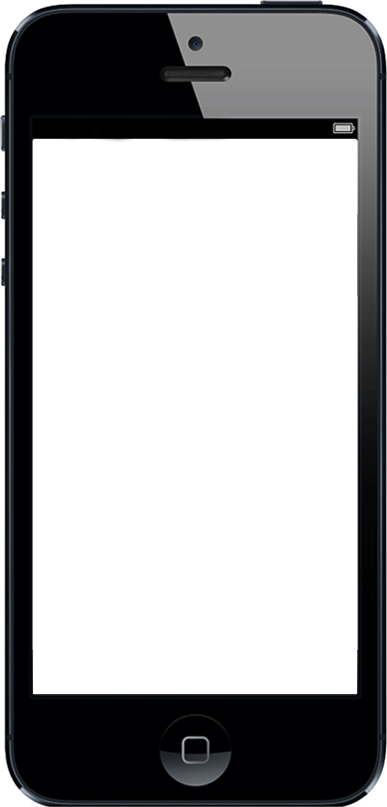
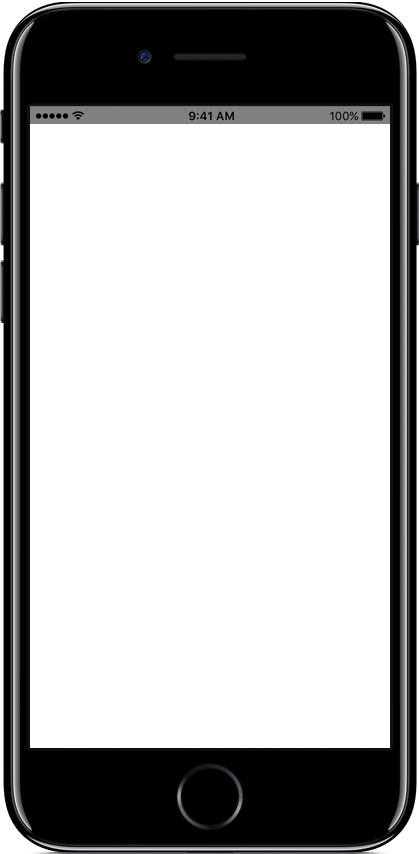
Upgrade to iphone 7 on mobile preview

Changed region(s): [[0.0, 0.0, 1.0, 1.0], [0.3411, 0.062, 0.3721, 0.0929]]

diff --git a/resources/assets/js/base/campaign.js b/resources/assets/js/base/campaign.js
@@ -307,12 +307,12 @@
 
     function animatePreviewToMobile() {
         var displayWidth = 320;
-        var displayHeight = 555;
+        var displayHeight = 605;
         var $iframeContainer = $("#modal-campaign-preview .preview-container .iframe-container");
 
         // Animate container to mobile height
         $("#modal-campaign-preview .preview-container").animate({
-            height: "807px"
+            height: "855px"
         });
         // Animate iframe to mobile size
         $iframeContainer.animate({

diff --git a/resources/assets/less/base/partials/bootstrap-modal.less b/resources/assets/less/base/partials/bootstrap-modal.less
@@ -82,16 +82,16 @@
 				position: relative;
 
 				&.mobile-active{
-					height: 807px;
+					height: 855px;
 				}
 
 				.mobile-frame{
 					.opacity(0);
 					position: absolute;
 					top: 0;
-					left: -195px;
-					width: 387px;
-					height: 807px;
+					left: -210px;
+					width: 420px;
+					height: 855px;
 					margin: 0 0 0 50%;
 					background: url( "@{image-url}mobile-frame.png") no-repeat center top;
 				}
